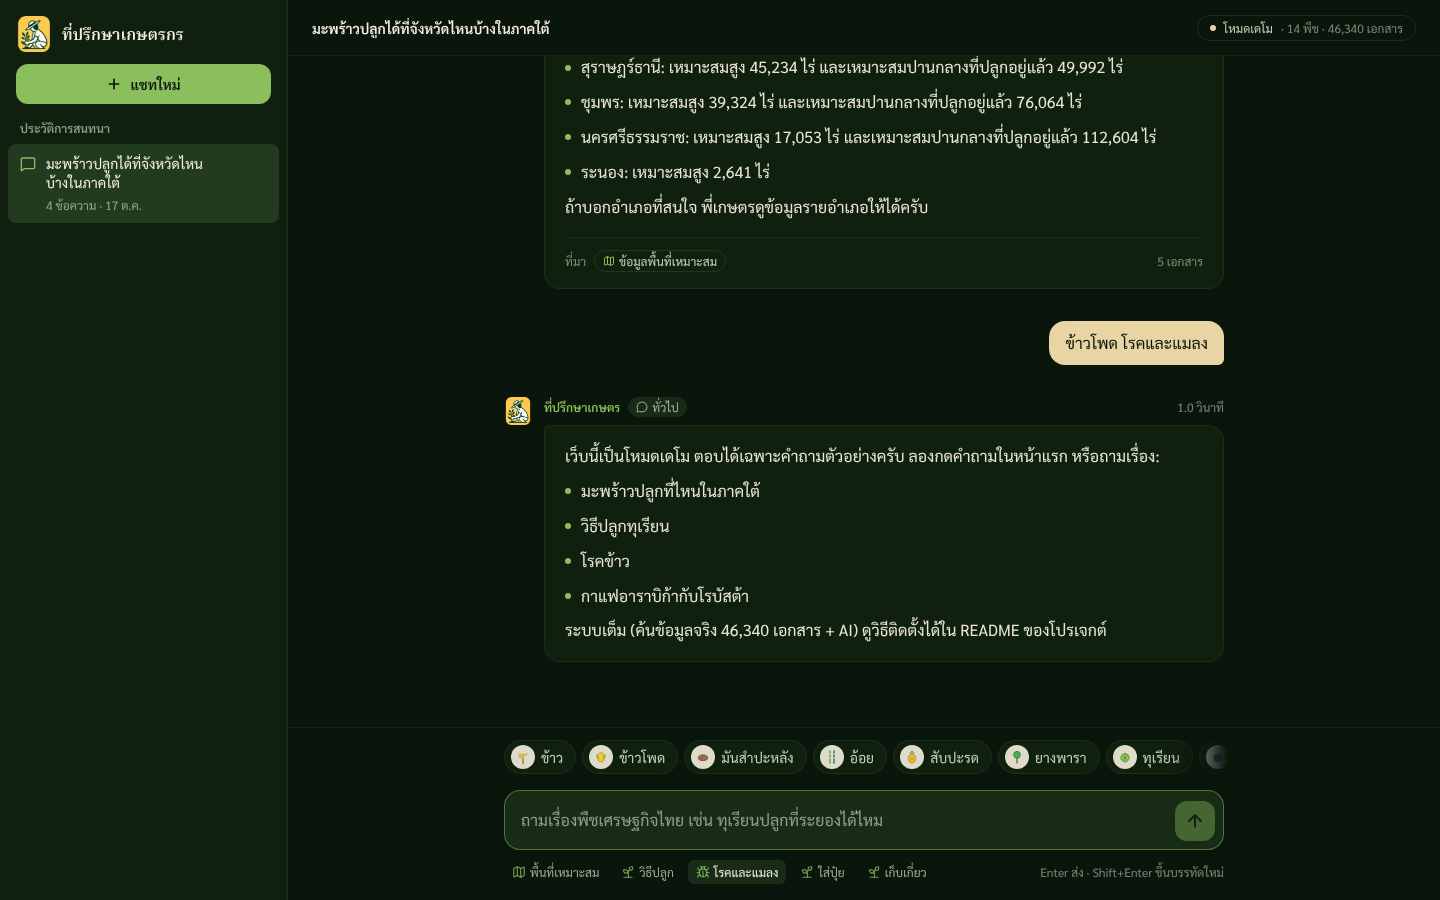
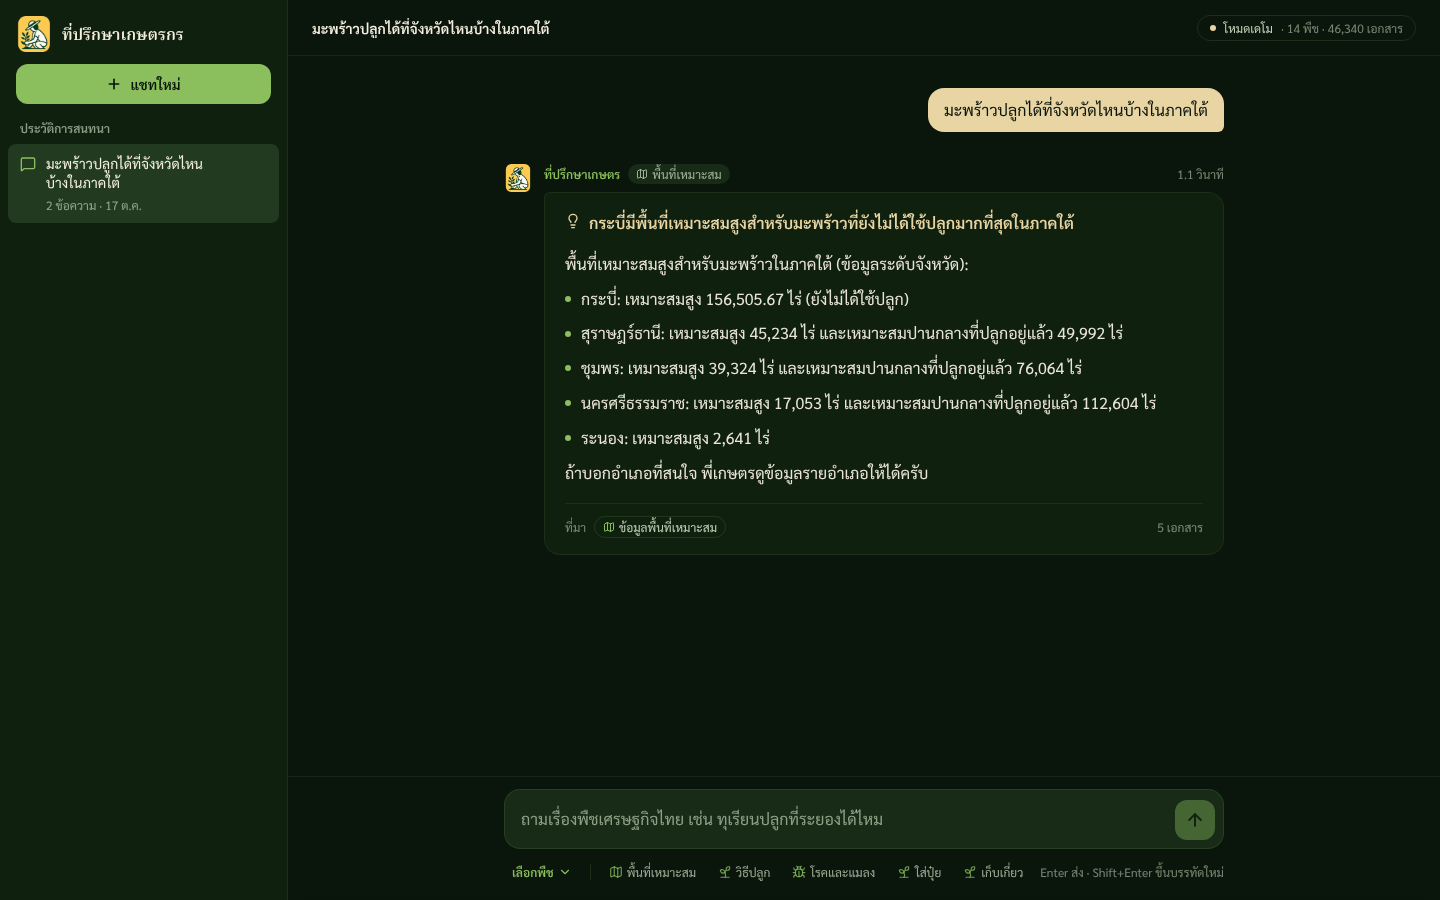
Replace the crop chip row with a compact crop picker
The row of 14 chips, each with a coloured illustration on a cream disc
and its own border, crowded the composer. A single "เลือกพืช" control
now sits with the topic tags and opens a text-only grid of crops above
the input; picking one inserts the name and closes it (Esc and outside
click close too). Drop the now unused CropIcons.

Claude-Session: https://claude.ai/code/session_019fuD91THPa8cLYJtGkw7Nm

diff --git a/frontend/src/components/chat/Composer.tsx b/frontend/src/components/chat/Composer.tsx
@@ -1,8 +1,7 @@
 import * as React from "react";
-import { ArrowUp, LoaderCircle } from "lucide-react";
+import { ArrowUp, ChevronDown, LoaderCircle } from "lucide-react";
 import { cn } from "@/lib/utils";
 import { CROPS, HINT_TAGS } from "@/utils/constants.js";
-import { CropIcons } from "../CropIcons.jsx";
 import { FallbackIcon, KIND_ICON } from "./meta";
 
 interface ComposerProps {
@@ -40,28 +39,6 @@ export default function Composer({ onSend, loading }: ComposerProps) {
   return (
     <div className="shrink-0 border-t border-lime/10 bg-field-950/90 backdrop-blur">
       <div className="mx-auto w-full max-w-3xl px-4 pb-4 pt-3 sm:px-6">
-        {/* พืช — กดเพื่อใส่ชื่อพืชในคำถาม */}
-        <div
-          className="-mx-1 mb-3 flex gap-1.5 overflow-x-auto px-1 pb-1 [scrollbar-width:none] [mask-image:linear-gradient(to_right,black_92%,transparent)]"
-          role="group"
-          aria-label="ใส่ชื่อพืชในคำถาม"
-        >
-          {CROPS.map((c: { key: string; label: string; icon: string }) => {
-            const CropIcon = (CropIcons as Record<string, () => React.ReactNode>)[c.icon];
-            return (
-              <button
-                key={c.key}
-                type="button"
-                onClick={() => insert(c.key)}
-                className="flex shrink-0 cursor-pointer items-center gap-1.5 rounded-full border border-lime/10 bg-field-900 py-1 pl-1.5 pr-3 text-sm text-moss transition-colors hover:border-lime/30 hover:text-cream focus-visible:outline-2 focus-visible:outline-lime"
-              >
-                <span className="grid size-6 place-items-center rounded-full bg-cream/90">{CropIcon?.()}</span>
-                {c.label}
-              </button>
-            );
-          })}
-        </div>
-
         <form
           onSubmit={(e) => { e.preventDefault(); submit(); }}
           className="flex items-end gap-2 rounded-2xl border border-lime/15 bg-field-800 p-2 pl-4 transition-colors focus-within:border-lime/50"
@@ -97,6 +74,8 @@ export default function Composer({ onSend, loading }: ComposerProps) {
         </form>
 
         <div className="mt-2.5 flex flex-wrap items-center gap-1.5">
+          <CropPicker onPick={insert} />
+          <span className="mx-1 h-4 w-px bg-lime/15" aria-hidden />
           {HINT_TAGS.map((h: { kind: string; label: string; insert: string }) => {
             const Icon = KIND_ICON[h.kind] ?? FallbackIcon;
             return (
@@ -119,6 +98,69 @@ export default function Composer({ onSend, loading }: ComposerProps) {
           </span>
         </div>
       </div>
+    </div>
+  );
+}
+
+// ─── เลือกพืช: ปุ่มเดียว เปิดรายชื่อพืชขึ้นมาเหนือช่องพิมพ์ ─────────────
+function CropPicker({ onPick }: { onPick: (crop: string) => void }) {
+  const [open, setOpen] = React.useState(false);
+  const rootRef = React.useRef<HTMLDivElement>(null);
+  const listId = React.useId();
+
+  React.useEffect(() => {
+    if (!open) return;
+    function onDown(e: MouseEvent) {
+      if (!rootRef.current?.contains(e.target as Node)) setOpen(false);
+    }
+    function onKey(e: KeyboardEvent) {
+      if (e.key === "Escape") setOpen(false);
+    }
+    document.addEventListener("mousedown", onDown);
+    document.addEventListener("keydown", onKey);
+    rootRef.current?.querySelector<HTMLButtonElement>("[data-crop]")?.focus();
+    return () => {
+      document.removeEventListener("mousedown", onDown);
+      document.removeEventListener("keydown", onKey);
+    };
+  }, [open]);
+
+  return (
+    <div ref={rootRef} className="relative">
+      <button
+        type="button"
+        onClick={() => setOpen((o) => !o)}
+        aria-expanded={open}
+        aria-controls={listId}
+        className={cn(
+          "inline-flex cursor-pointer items-center gap-1 rounded-md px-2 py-1 text-xs font-semibold transition-colors focus-visible:outline-2 focus-visible:outline-lime",
+          open ? "bg-field-800 text-cream" : "text-lime hover:bg-field-800",
+        )}
+      >
+        เลือกพืช
+        <ChevronDown className={cn("size-3.5 transition-transform", open && "rotate-180")} aria-hidden />
+      </button>
+
+      {open && (
+        <div
+          id={listId}
+          role="group"
+          aria-label="ใส่ชื่อพืชในคำถาม"
+          className="absolute bottom-full left-0 z-20 mb-2 grid w-[min(88vw,22rem)] grid-cols-2 gap-0.5 rounded-xl border border-lime/15 bg-field-900 p-1.5 shadow-[0_18px_40px_-8px_rgba(0,0,0,.6)] animate-[fadeUp_.18s_ease-out] sm:grid-cols-3"
+        >
+          {CROPS.map((c: { key: string; label: string }) => (
+            <button
+              key={c.key}
+              type="button"
+              data-crop
+              onClick={() => { onPick(c.key); setOpen(false); }}
+              className="cursor-pointer rounded-lg px-2.5 py-2 text-left text-sm text-moss transition-colors hover:bg-field-800 hover:text-cream focus-visible:bg-field-800 focus-visible:text-cream focus-visible:outline-none"
+            >
+              {c.label}
+            </button>
+          ))}
+        </div>
+      )}
     </div>
   );
 }

diff --git a/frontend/src/utils/constants.js b/frontend/src/utils/constants.js
@@ -1,19 +1,19 @@
 // ─── 14 พืชเศรษฐกิจไทย ────────────────────────────────
 export const CROPS = [
-  { key: 'ข้าว', label: 'ข้าว', icon: 'rice' },
-  { key: 'ข้าวโพด', label: 'ข้าวโพด', icon: 'corn' },
-  { key: 'มันสำปะหลัง', label: 'มันสำปะหลัง', icon: 'cassava' },
-  { key: 'อ้อย', label: 'อ้อย', icon: 'sugarcane' },
-  { key: 'สับปะรด', label: 'สับปะรด', icon: 'pineapple' },
-  { key: 'ยางพารา', label: 'ยางพารา', icon: 'rubber' },
-  { key: 'ทุเรียน', label: 'ทุเรียน', icon: 'durian' },
-  { key: 'มังคุด', label: 'มังคุด', icon: 'mangosteen' },
-  { key: 'ลำไย', label: 'ลำไย', icon: 'longan' },
-  { key: 'ปาล์มน้ำมัน', label: 'ปาล์มน้ำมัน', icon: 'palm' },
-  { key: 'มะพร้าว', label: 'มะพร้าว', icon: 'coconut' },
-  { key: 'กาแฟโรบัสต้า', label: 'กาแฟโรบัสต้า', icon: 'coffee' },
-  { key: 'กาแฟอาราบิก้า', label: 'กาแฟอาราบิก้า', icon: 'coffee' },
-  { key: 'เงาะ', label: 'เงาะ', icon: 'rambutan' },
+  { key: 'ข้าว', label: 'ข้าว' },
+  { key: 'ข้าวโพด', label: 'ข้าวโพด' },
+  { key: 'มันสำปะหลัง', label: 'มันสำปะหลัง' },
+  { key: 'อ้อย', label: 'อ้อย' },
+  { key: 'สับปะรด', label: 'สับปะรด' },
+  { key: 'ยางพารา', label: 'ยางพารา' },
+  { key: 'ทุเรียน', label: 'ทุเรียน' },
+  { key: 'มังคุด', label: 'มังคุด' },
+  { key: 'ลำไย', label: 'ลำไย' },
+  { key: 'ปาล์มน้ำมัน', label: 'ปาล์มน้ำมัน' },
+  { key: 'มะพร้าว', label: 'มะพร้าว' },
+  { key: 'กาแฟโรบัสต้า', label: 'กาแฟโรบัสต้า' },
+  { key: 'กาแฟอาราบิก้า', label: 'กาแฟอาราบิก้า' },
+  { key: 'เงาะ', label: 'เงาะ' },
 ]
 
 // ─── คำถามตัวอย่าง (หน้าแรก + หน้าแชทว่าง) ─────────────
